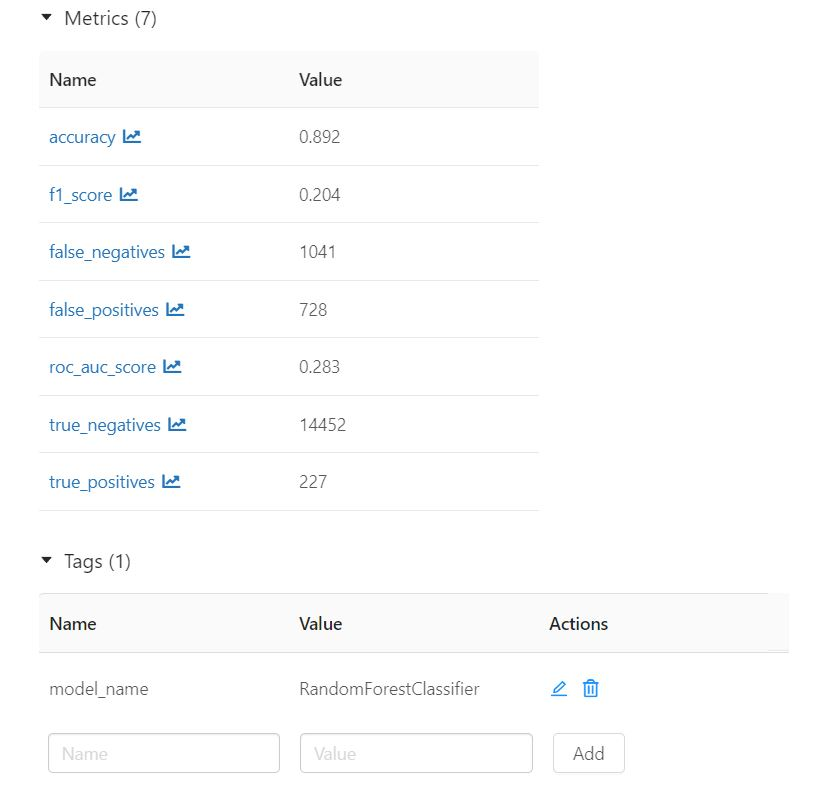
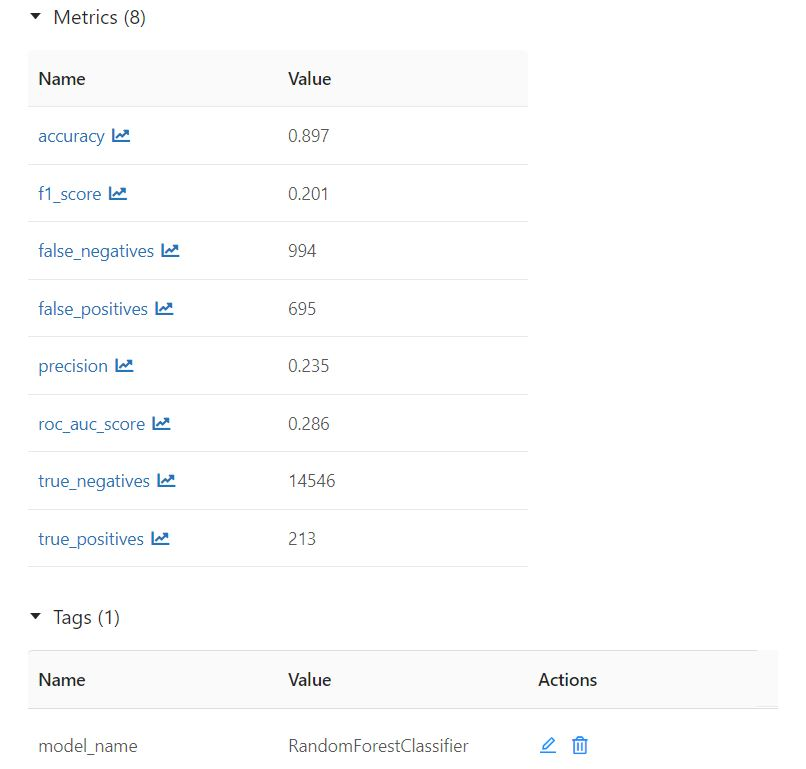
Added precision score to metrics

diff --git a/src/models/train/xgboost/xgboost_train.py b/src/models/train/xgboost/xgboost_train.py
@@ -20,6 +20,7 @@ from sklearn.model_selection import train_test_split
 from sklearn.metrics import accuracy_score
 from sklearn.metrics import confusion_matrix
 from sklearn.metrics import f1_score
+from sklearn.metrics import precision_score
 from sklearn.metrics import roc_auc_score
 import logging
 import mlflow
@@ -82,7 +83,7 @@ def train_xgboost_classifier(X_train, y_train):
 
 # + id="30ac1411"
 def eval_metrics(actual, pred):
-    """Return a tuple containing model classification accuracy, confusion matrix and f1_score.
+    """Return a tuple containing model classification accuracy, confusion matrix, f1_score and precision score.
 
   Keyword arguments:
   actual -- ndarray y_test containing true target values
@@ -91,12 +92,14 @@ def eval_metrics(actual, pred):
     accuracy = accuracy_score(actual, pred)
     conf_matrix = confusion_matrix(actual, pred)
     f_score = f1_score(actual, pred)
-    return accuracy, conf_matrix, f_score
+    precision = precision_score(actual, pred)
+    return accuracy, conf_matrix, f_score, precision
 
 
 # + id="xlD2NDs7Yl52"
 def get_model_evaluation_metrics(clf, X_test, y_test):
-    """Return a tuple containing model classification accuracy, confusion matrix, f1_score  and ROC area under the curve score..
+    """Return a tuple containing model classification accuracy, confusion matrix, f1_score, precision score and
+    ROC area under the curve score.
   
   Keyword arguments:
   clf -- classifier model
@@ -104,11 +107,11 @@ def get_model_evaluation_metrics(clf, X_test, y_test):
   y_test -- ndarray target column values to test the model
   """
     predicted_repayments = clf.predict(X_test)
-    (accuracy, conf_matrix, f_score) = eval_metrics(y_test, predicted_repayments)
+    (accuracy, conf_matrix, f_score, precision) = eval_metrics(y_test, predicted_repayments)
     xgb_probs = clf.predict_proba(X_test)
     xgb_probs = xgb_probs[:, 0]  # keeping only the first class (repayment OK)
     xgb_roc_auc_score = roc_auc_score(y_test, xgb_probs)
-    return accuracy, conf_matrix, f_score, xgb_roc_auc_score
+    return accuracy, conf_matrix, f_score, precision, xgb_roc_auc_score
 
 
 # + [markdown] id="xIhVvhSMcbRN"
@@ -136,9 +139,10 @@ def track_model_metrics(clf, X_test, y_test):
   X_test -- ndarray containing all test columns except target column
   y_test -- ndarray target column values to test the model
   """
-    (accuracy, conf_matrix, f_score, xgb_roc_auc_score) = get_model_evaluation_metrics(clf, X_test, y_test)
+    (accuracy, conf_matrix, f_score, precision, xgb_roc_auc_score) = get_model_evaluation_metrics(clf, X_test, y_test)
     mlflow.log_metric('accuracy', accuracy)
     mlflow.log_metric('f1_score', f_score)
+    mlflow.log_metric('precision', precision)
     mlflow.log_metric('roc_auc_score', xgb_roc_auc_score)
     tn, fp, fn, tp = conf_matrix.ravel()
     mlflow.log_metric('true_negatives', tn)

diff --git a/src/models/train/gradient_boosting/gradient_boosting_train.py b/src/models/train/gradient_boosting/gradient_boosting_train.py
@@ -20,6 +20,7 @@ from sklearn.model_selection import train_test_split
 from sklearn.metrics import accuracy_score
 from sklearn.metrics import confusion_matrix
 from sklearn.metrics import f1_score
+from sklearn.metrics import precision_score
 from sklearn.metrics import roc_auc_score
 import logging
 import mlflow
@@ -76,7 +77,7 @@ def train_gradient_boosting_classifier(X_train, y_train):
 
 # + id="30ac1411"
 def eval_metrics(actual, pred):
-    """Return a tuple containing model classification accuracy, confusion matrix and f1_score.
+    """Return a tuple containing model classification accuracy, confusion matrix, f1_score and precision score.
 
   Keyword arguments:
   actual -- ndarray y_test containing true target values
@@ -85,12 +86,14 @@ def eval_metrics(actual, pred):
     accuracy = accuracy_score(actual, pred)
     conf_matrix = confusion_matrix(actual, pred)
     f_score = f1_score(actual, pred)
-    return accuracy, conf_matrix, f_score
+    precision = precision_score(actual, pred)
+    return accuracy, conf_matrix, f_score, precision
 
 
 # + id="xlD2NDs7Yl52"
 def get_model_evaluation_metrics(clf, X_test, y_test):
-    """Return a tuple containing model classification accuracy, confusion matrix, f1_score and ROC area under the curve score.
+    """Return a tuple containing model classification accuracy, confusion matrix, f1_score, precision score and
+    ROC area under the curve score.
   
   Keyword arguments:
   clf -- classifier model
@@ -98,11 +101,11 @@ def get_model_evaluation_metrics(clf, X_test, y_test):
   y_test -- ndarray target column values to test the model
   """
     predicted_repayments = clf.predict(X_test)
-    (accuracy, conf_matrix, f_score) = eval_metrics(y_test, predicted_repayments)
+    (accuracy, conf_matrix, f_score, precision) = eval_metrics(y_test, predicted_repayments)
     gb_probs = clf.predict_proba(X_test)
     gb_probs = gb_probs[:, 0] # keeping only the first class (repayment OK)
     gb_roc_auc_score = roc_auc_score(y_test, gb_probs)
-    return accuracy, conf_matrix, f_score, gb_roc_auc_score
+    return accuracy, conf_matrix, f_score, precision, gb_roc_auc_score
 
 
 # + [markdown] id="xIhVvhSMcbRN"
@@ -130,9 +133,10 @@ def track_model_metrics(clf, X_test, y_test):
   X_test -- ndarray containing all test columns except target column
   y_test -- ndarray target column values to test the model
   """
-    (accuracy, conf_matrix, f_score, gb_roc_auc_score) = get_model_evaluation_metrics(clf, X_test, y_test)
+    (accuracy, conf_matrix, f_score, gb_roc_auc_score, precision) = get_model_evaluation_metrics(clf, X_test, y_test)
     mlflow.log_metric('accuracy', accuracy)
     mlflow.log_metric('f1_score', f_score)
+    mlflow.log_metric('precision', precision)
     mlflow.log_metric('roc_auc_score', gb_roc_auc_score)
     tn, fp, fn, tp = conf_matrix.ravel()
     mlflow.log_metric('true_negatives', tn)

diff --git a/src/models/train/random_forest/random_forest_train.py b/src/models/train/random_forest/random_forest_train.py
@@ -20,6 +20,7 @@ from sklearn.model_selection import train_test_split
 from sklearn.metrics import accuracy_score
 from sklearn.metrics import confusion_matrix
 from sklearn.metrics import f1_score
+from sklearn.metrics import precision_score
 from sklearn.metrics import roc_auc_score
 import logging
 import mlflow
@@ -83,7 +84,7 @@ def train_random_forest_classifier(X_train, y_train):
 
 # + pycharm={"name": "#%%\n"}
 def eval_metrics(actual, pred):
-  """Return a tuple containing model classification accuracy, confusion matrix and f1_score.
+  """Return a tuple containing model classification accuracy, confusion matrix, f1_score and precision score.
 
   Keyword arguments:
   actual -- ndarray y_test containing true target values
@@ -92,12 +93,14 @@ def eval_metrics(actual, pred):
   accuracy = accuracy_score(actual, pred)
   conf_matrix = confusion_matrix(actual, pred)
   f_score = f1_score(actual, pred)
-  return accuracy, conf_matrix, f_score
+  precision = precision_score(actual, pred)
+  return accuracy, conf_matrix, f_score, precision
 
 
 # + pycharm={"name": "#%%\n"}
 def get_model_evaluation_metrics(clf, X_test, y_test):
-  """Return a tuple containing model classification accuracy, confusion matrix, f1_score and ROC area under the curve score.
+  """Return a tuple containing model classification accuracy, confusion matrix, f1_score, precision score and
+  ROC area under the curve score.
 
   Keyword arguments:
   clf -- classifier model
@@ -105,11 +108,11 @@ def get_model_evaluation_metrics(clf, X_test, y_test):
   y_test -- ndarray target column values to test the model
   """
   predicted_repayments = clf.predict(X_test)
-  (accuracy, conf_matrix, f_score) = eval_metrics(y_test, predicted_repayments)
+  (accuracy, conf_matrix, f_score, precision) = eval_metrics(y_test, predicted_repayments)
   rf_probs = clf.predict_proba(X_test)
   rf_probs = rf_probs[:, 0]  # keeping only the first class (repayment OK)
   rf_roc_auc_score = roc_auc_score(y_test, rf_probs)
-  return accuracy, conf_matrix, f_score, rf_roc_auc_score
+  return accuracy, conf_matrix, f_score, precision, rf_roc_auc_score
 
 
 # -
@@ -138,9 +141,10 @@ def track_model_metrics(clf, X_test, y_test):
   X_test -- ndarray containing all test columns except target column
   y_test -- ndarray target column values to test the model
   """
-  (accuracy, conf_matrix, f_score, rf_roc_auc_score) = get_model_evaluation_metrics(clf, X_test, y_test)
+  (accuracy, conf_matrix, f_score, precision, rf_roc_auc_score) = get_model_evaluation_metrics(clf, X_test, y_test)
   mlflow.log_metric('accuracy', accuracy)
   mlflow.log_metric('f1_score', f_score)
+  mlflow.log_metric('precision', precision)
   mlflow.log_metric('roc_auc_score', rf_roc_auc_score)
   tn, fp, fn, tp = conf_matrix.ravel()
   mlflow.log_metric('true_negatives', tn)
